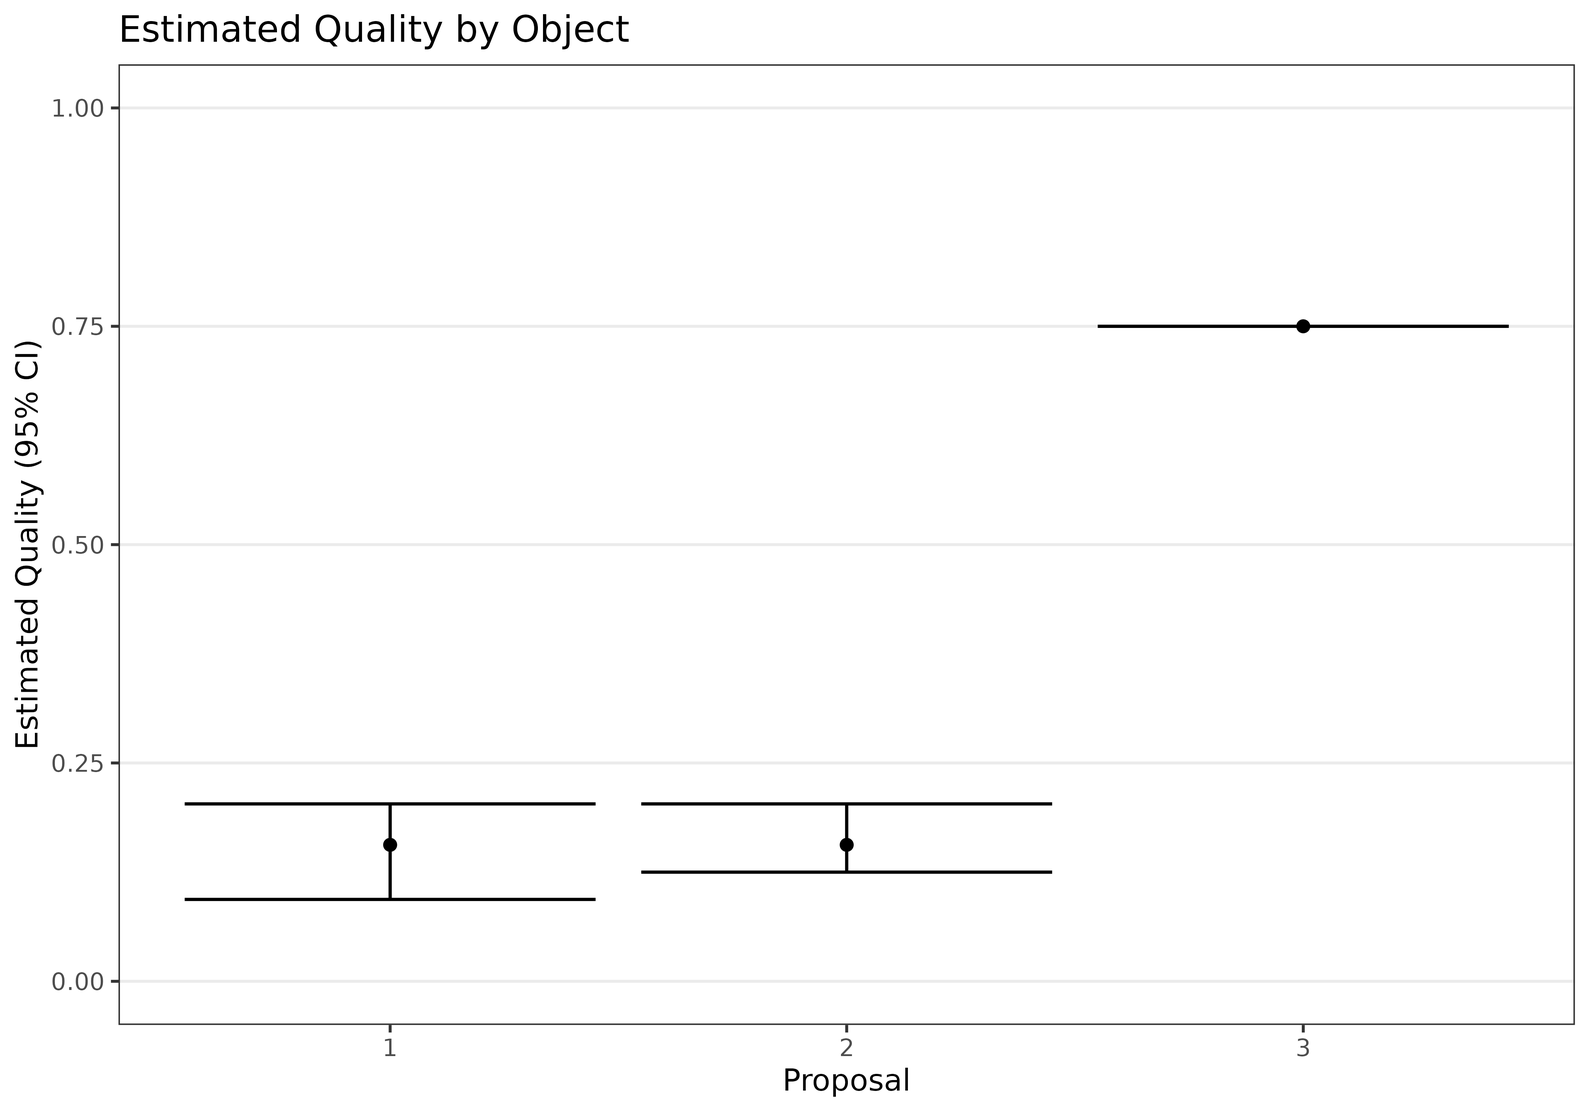
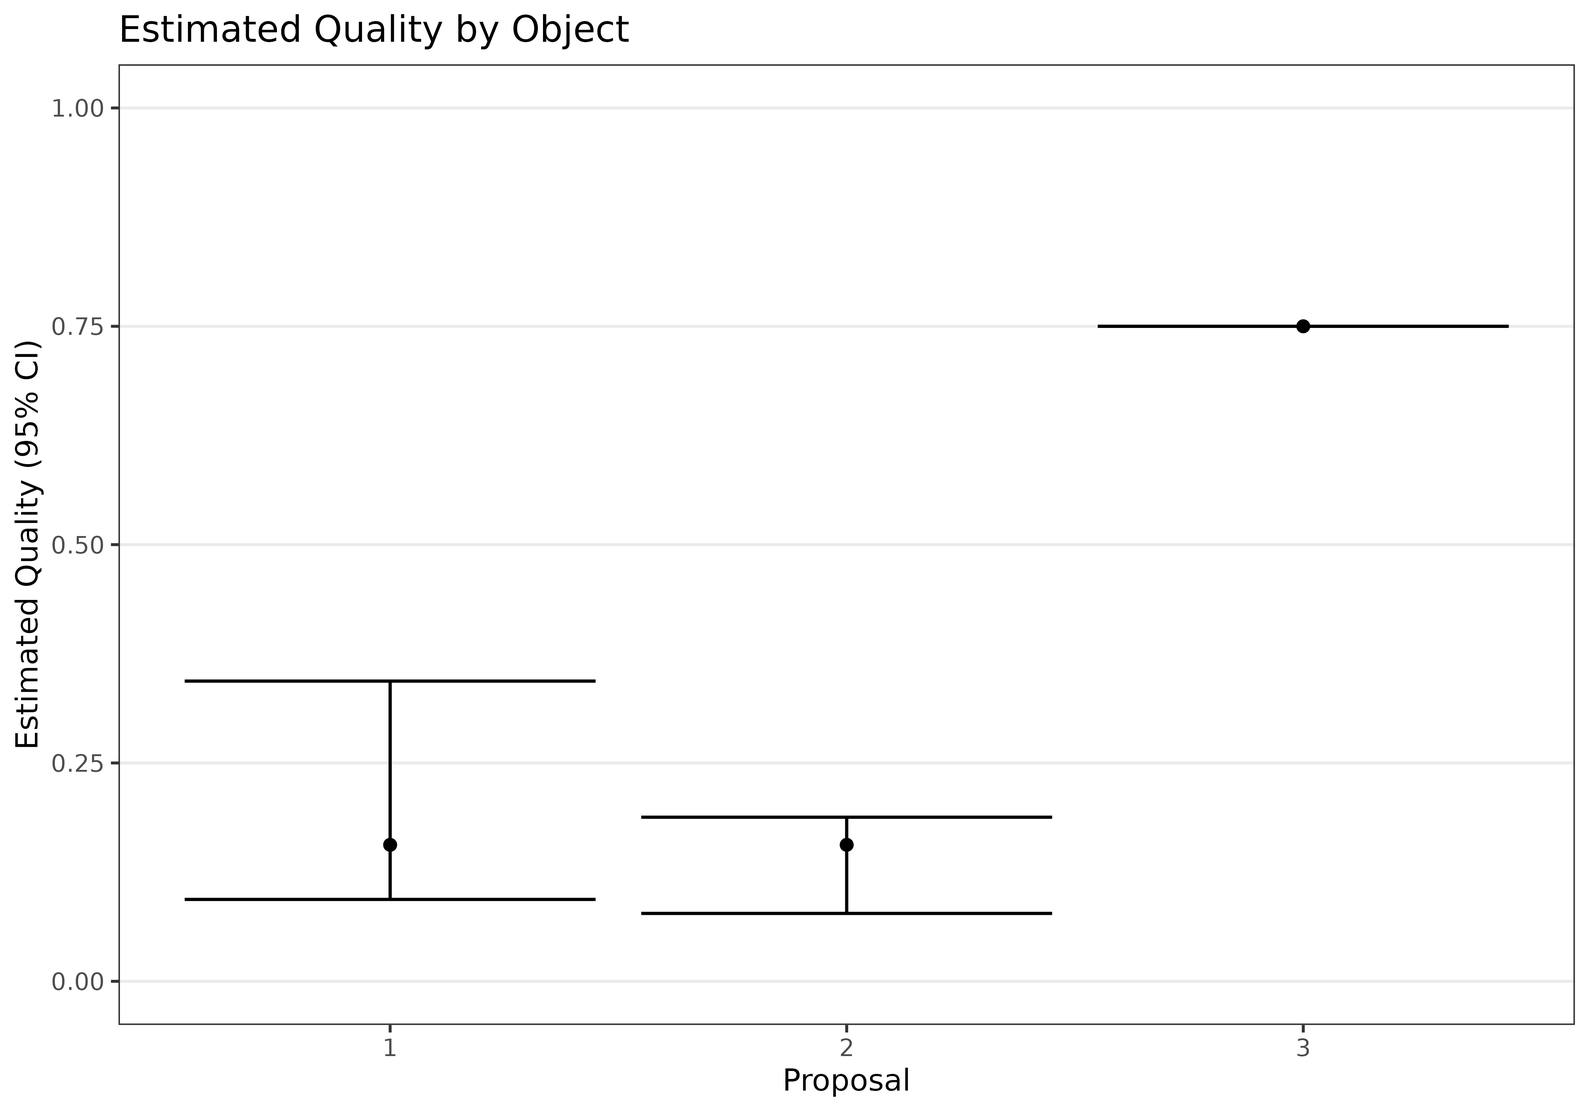
Deploying to gh-pages from @ pearce790/rankrate@41e6022e4606ce115d0dea6d0d26eedba32c3bf9 🚀

diff --git a/reference/ci_mb.html b/reference/ci_mb.html
@@ -115,7 +115,7 @@ matrix of bootstrap estimates of (p,theta) (returned only if <code>all==TRUE</co
 <span class="r-out co"><span class="r-pr">#&gt;</span> $ci</span>
 <span class="r-out co"><span class="r-pr">#&gt;</span>           p1       p2   p3 theta</span>
 <span class="r-out co"><span class="r-pr">#&gt;</span> 5%  0.078125 0.078125 0.75 1e+08</span>
-<span class="r-out co"><span class="r-pr">#&gt;</span> 95% 0.156250 0.156250 0.75 1e+08</span>
+<span class="r-out co"><span class="r-pr">#&gt;</span> 95% 0.187500 0.187500 0.75 1e+08</span>
 <span class="r-out co"><span class="r-pr">#&gt;</span> </span>
 <span class="r-out co"><span class="r-pr">#&gt;</span> $ci_ranks</span>
 <span class="r-out co"><span class="r-pr">#&gt;</span>     Object1 Object2 Object3</span>
@@ -177,56 +177,56 @@ matrix of bootstrap estimates of (p,theta) (returned only if <code>all==TRUE</co
 <span class="r-out co"><span class="r-pr">#&gt;</span> </span>
 <span class="r-out co"><span class="r-pr">#&gt;</span> $bootstrap_ptheta</span>
 <span class="r-out co"><span class="r-pr">#&gt;</span>             p1       p2   p3 theta</span>
-<span class="r-out co"><span class="r-pr">#&gt;</span>  [1,] 0.078125 0.078125 0.75 1e+08</span>
+<span class="r-out co"><span class="r-pr">#&gt;</span>  [1,] 0.109375 0.109375 0.75 1e+08</span>
 <span class="r-out co"><span class="r-pr">#&gt;</span>  [2,] 0.125000 0.125000 0.75 1e+08</span>
-<span class="r-out co"><span class="r-pr">#&gt;</span>  [3,] 0.156250 0.156250 0.75 1e+08</span>
-<span class="r-out co"><span class="r-pr">#&gt;</span>  [4,] 0.125000 0.125000 0.75 1e+08</span>
-<span class="r-out co"><span class="r-pr">#&gt;</span>  [5,] 0.109375 0.109375 0.75 1e+08</span>
-<span class="r-out co"><span class="r-pr">#&gt;</span>  [6,] 0.125000 0.125000 0.75 1e+08</span>
-<span class="r-out co"><span class="r-pr">#&gt;</span>  [7,] 0.156250 0.156250 0.75 1e+08</span>
+<span class="r-out co"><span class="r-pr">#&gt;</span>  [3,] 0.093750 0.093750 0.75 1e+08</span>
+<span class="r-out co"><span class="r-pr">#&gt;</span>  [4,] 0.109375 0.109375 0.75 1e+08</span>
+<span class="r-out co"><span class="r-pr">#&gt;</span>  [5,] 0.093750 0.093750 0.75 1e+08</span>
+<span class="r-out co"><span class="r-pr">#&gt;</span>  [6,] 0.156250 0.156250 0.75 1e+08</span>
+<span class="r-out co"><span class="r-pr">#&gt;</span>  [7,] 0.140625 0.140625 0.75 1e+08</span>
 <span class="r-out co"><span class="r-pr">#&gt;</span>  [8,] 0.125000 0.125000 0.75 1e+08</span>
-<span class="r-out co"><span class="r-pr">#&gt;</span>  [9,] 0.171875 0.171875 0.75 1e+08</span>
+<span class="r-out co"><span class="r-pr">#&gt;</span>  [9,] 0.109375 0.109375 0.75 1e+08</span>
 <span class="r-out co"><span class="r-pr">#&gt;</span> [10,] 0.125000 0.125000 0.75 1e+08</span>
-<span class="r-out co"><span class="r-pr">#&gt;</span> [11,] 0.109375 0.109375 0.75 1e+08</span>
+<span class="r-out co"><span class="r-pr">#&gt;</span> [11,] 0.156250 0.156250 0.75 1e+08</span>
 <span class="r-out co"><span class="r-pr">#&gt;</span> [12,] 0.140625 0.140625 0.75 1e+08</span>
-<span class="r-out co"><span class="r-pr">#&gt;</span> [13,] 0.140625 0.140625 0.75 1e+08</span>
-<span class="r-out co"><span class="r-pr">#&gt;</span> [14,] 0.093750 0.093750 0.75 1e+08</span>
-<span class="r-out co"><span class="r-pr">#&gt;</span> [15,] 0.156250 0.156250 0.75 1e+08</span>
+<span class="r-out co"><span class="r-pr">#&gt;</span> [13,] 0.203125 0.203125 0.75 1e+08</span>
+<span class="r-out co"><span class="r-pr">#&gt;</span> [14,] 0.062500 0.062500 0.75 1e+08</span>
+<span class="r-out co"><span class="r-pr">#&gt;</span> [15,] 0.109375 0.109375 0.75 1e+08</span>
 <span class="r-out co"><span class="r-pr">#&gt;</span> [16,] 0.140625 0.140625 0.75 1e+08</span>
-<span class="r-out co"><span class="r-pr">#&gt;</span> [17,] 0.109375 0.109375 0.75 1e+08</span>
-<span class="r-out co"><span class="r-pr">#&gt;</span> [18,] 0.109375 0.109375 0.75 1e+08</span>
-<span class="r-out co"><span class="r-pr">#&gt;</span> [19,] 0.156250 0.156250 0.75 1e+08</span>
-<span class="r-out co"><span class="r-pr">#&gt;</span> [20,] 0.078125 0.078125 0.75 1e+08</span>
-<span class="r-out co"><span class="r-pr">#&gt;</span> [21,] 0.156250 0.156250 0.75 1e+08</span>
-<span class="r-out co"><span class="r-pr">#&gt;</span> [22,] 0.140625 0.140625 0.75 1e+08</span>
-<span class="r-out co"><span class="r-pr">#&gt;</span> [23,] 0.078125 0.078125 0.75 1e+08</span>
-<span class="r-out co"><span class="r-pr">#&gt;</span> [24,] 0.187500 0.187500 0.75 1e+08</span>
-<span class="r-out co"><span class="r-pr">#&gt;</span> [25,] 0.140625 0.140625 0.75 1e+08</span>
-<span class="r-out co"><span class="r-pr">#&gt;</span> [26,] 0.140625 0.140625 0.75 1e+08</span>
-<span class="r-out co"><span class="r-pr">#&gt;</span> [27,] 0.109375 0.109375 0.75 1e+08</span>
-<span class="r-out co"><span class="r-pr">#&gt;</span> [28,] 0.156250 0.156250 0.75 1e+08</span>
+<span class="r-out co"><span class="r-pr">#&gt;</span> [17,] 0.140625 0.140625 0.75 1e+08</span>
+<span class="r-out co"><span class="r-pr">#&gt;</span> [18,] 0.078125 0.078125 0.75 1e+08</span>
+<span class="r-out co"><span class="r-pr">#&gt;</span> [19,] 0.109375 0.109375 0.75 1e+08</span>
+<span class="r-out co"><span class="r-pr">#&gt;</span> [20,] 0.140625 0.140625 0.75 1e+08</span>
+<span class="r-out co"><span class="r-pr">#&gt;</span> [21,] 0.125000 0.125000 0.75 1e+08</span>
+<span class="r-out co"><span class="r-pr">#&gt;</span> [22,] 0.109375 0.109375 0.75 1e+08</span>
+<span class="r-out co"><span class="r-pr">#&gt;</span> [23,] 0.093750 0.093750 0.75 1e+08</span>
+<span class="r-out co"><span class="r-pr">#&gt;</span> [24,] 0.156250 0.156250 0.75 1e+08</span>
+<span class="r-out co"><span class="r-pr">#&gt;</span> [25,] 0.109375 0.109375 0.75 1e+08</span>
+<span class="r-out co"><span class="r-pr">#&gt;</span> [26,] 0.093750 0.093750 0.75 1e+08</span>
+<span class="r-out co"><span class="r-pr">#&gt;</span> [27,] 0.140625 0.140625 0.75 1e+08</span>
+<span class="r-out co"><span class="r-pr">#&gt;</span> [28,] 0.125000 0.125000 0.75 1e+08</span>
 <span class="r-out co"><span class="r-pr">#&gt;</span> [29,] 0.093750 0.093750 0.75 1e+08</span>
-<span class="r-out co"><span class="r-pr">#&gt;</span> [30,] 0.078125 0.078125 0.75 1e+08</span>
-<span class="r-out co"><span class="r-pr">#&gt;</span> [31,] 0.109375 0.109375 0.75 1e+08</span>
-<span class="r-out co"><span class="r-pr">#&gt;</span> [32,] 0.125000 0.125000 0.75 1e+08</span>
-<span class="r-out co"><span class="r-pr">#&gt;</span> [33,] 0.140625 0.140625 0.75 1e+08</span>
-<span class="r-out co"><span class="r-pr">#&gt;</span> [34,] 0.156250 0.156250 0.75 1e+08</span>
+<span class="r-out co"><span class="r-pr">#&gt;</span> [30,] 0.140625 0.140625 0.75 1e+08</span>
+<span class="r-out co"><span class="r-pr">#&gt;</span> [31,] 0.187500 0.187500 0.75 1e+08</span>
+<span class="r-out co"><span class="r-pr">#&gt;</span> [32,] 0.093750 0.093750 0.75 1e+08</span>
+<span class="r-out co"><span class="r-pr">#&gt;</span> [33,] 0.109375 0.109375 0.75 1e+08</span>
+<span class="r-out co"><span class="r-pr">#&gt;</span> [34,] 0.078125 0.078125 0.75 1e+08</span>
 <span class="r-out co"><span class="r-pr">#&gt;</span> [35,] 0.156250 0.156250 0.75 1e+08</span>
-<span class="r-out co"><span class="r-pr">#&gt;</span> [36,] 0.140625 0.140625 0.75 1e+08</span>
-<span class="r-out co"><span class="r-pr">#&gt;</span> [37,] 0.125000 0.125000 0.75 1e+08</span>
-<span class="r-out co"><span class="r-pr">#&gt;</span> [38,] 0.093750 0.093750 0.75 1e+08</span>
-<span class="r-out co"><span class="r-pr">#&gt;</span> [39,] 0.046875 0.046875 0.75 1e+08</span>
-<span class="r-out co"><span class="r-pr">#&gt;</span> [40,] 0.140625 0.140625 0.75 1e+08</span>
+<span class="r-out co"><span class="r-pr">#&gt;</span> [36,] 0.093750 0.093750 0.75 1e+08</span>
+<span class="r-out co"><span class="r-pr">#&gt;</span> [37,] 0.187500 0.187500 0.75 1e+08</span>
+<span class="r-out co"><span class="r-pr">#&gt;</span> [38,] 0.156250 0.156250 0.75 1e+08</span>
+<span class="r-out co"><span class="r-pr">#&gt;</span> [39,] 0.125000 0.125000 0.75 1e+08</span>
+<span class="r-out co"><span class="r-pr">#&gt;</span> [40,] 0.125000 0.125000 0.75 1e+08</span>
 <span class="r-out co"><span class="r-pr">#&gt;</span> [41,] 0.140625 0.140625 0.75 1e+08</span>
-<span class="r-out co"><span class="r-pr">#&gt;</span> [42,] 0.140625 0.140625 0.75 1e+08</span>
+<span class="r-out co"><span class="r-pr">#&gt;</span> [42,] 0.078125 0.078125 0.75 1e+08</span>
 <span class="r-out co"><span class="r-pr">#&gt;</span> [43,] 0.140625 0.140625 0.75 1e+08</span>
-<span class="r-out co"><span class="r-pr">#&gt;</span> [44,] 0.031250 0.031250 0.75 1e+08</span>
+<span class="r-out co"><span class="r-pr">#&gt;</span> [44,] 0.125000 0.125000 0.75 1e+08</span>
 <span class="r-out co"><span class="r-pr">#&gt;</span> [45,] 0.109375 0.109375 0.75 1e+08</span>
-<span class="r-out co"><span class="r-pr">#&gt;</span> [46,] 0.109375 0.109375 0.75 1e+08</span>
-<span class="r-out co"><span class="r-pr">#&gt;</span> [47,] 0.125000 0.125000 0.75 1e+08</span>
-<span class="r-out co"><span class="r-pr">#&gt;</span> [48,] 0.140625 0.140625 0.75 1e+08</span>
-<span class="r-out co"><span class="r-pr">#&gt;</span> [49,] 0.109375 0.109375 0.75 1e+08</span>
-<span class="r-out co"><span class="r-pr">#&gt;</span> [50,] 0.109375 0.109375 0.75 1e+08</span>
+<span class="r-out co"><span class="r-pr">#&gt;</span> [46,] 0.140625 0.140625 0.75 1e+08</span>
+<span class="r-out co"><span class="r-pr">#&gt;</span> [47,] 0.218750 0.218750 0.75 1e+08</span>
+<span class="r-out co"><span class="r-pr">#&gt;</span> [48,] 0.156250 0.156250 0.75 1e+08</span>
+<span class="r-out co"><span class="r-pr">#&gt;</span> [49,] 0.125000 0.125000 0.75 1e+08</span>
+<span class="r-out co"><span class="r-pr">#&gt;</span> [50,] 0.078125 0.078125 0.75 1e+08</span>
 <span class="r-out co"><span class="r-pr">#&gt;</span> </span>
 <span class="r-in"><span></span></span>
 </code></pre></div>

diff --git a/reference/rmb.html b/reference/rmb.html
@@ -96,19 +96,19 @@ and <code>M</code>, the inputted maximum integer rating.</p>
     <div class="sourceCode"><pre class="sourceCode r"><code><span class="r-in"><span><span class="fu">rmb</span><span class="op">(</span>I<span class="op">=</span><span class="fl">5</span>,p<span class="op">=</span><span class="fu"><a href="https://rdrr.io/r/base/c.html" class="external-link">c</a></span><span class="op">(</span><span class="fl">.1</span>,<span class="fl">.3</span>,<span class="fl">.4</span>,<span class="fl">.7</span>,<span class="fl">.9</span><span class="op">)</span>,theta<span class="op">=</span><span class="fl">1</span>,M<span class="op">=</span><span class="fl">10</span><span class="op">)</span></span></span>
 <span class="r-out co"><span class="r-pr">#&gt;</span> $ratings</span>
 <span class="r-out co"><span class="r-pr">#&gt;</span>      [,1] [,2] [,3] [,4] [,5]</span>
-<span class="r-out co"><span class="r-pr">#&gt;</span> [1,]    2    2    5    7    9</span>
-<span class="r-out co"><span class="r-pr">#&gt;</span> [2,]    1    6    2    7    9</span>
-<span class="r-out co"><span class="r-pr">#&gt;</span> [3,]    1    3    3    8    7</span>
-<span class="r-out co"><span class="r-pr">#&gt;</span> [4,]    0    3    5    7   10</span>
-<span class="r-out co"><span class="r-pr">#&gt;</span> [5,]    1    5    6    3   10</span>
+<span class="r-out co"><span class="r-pr">#&gt;</span> [1,]    0    3    4   10   10</span>
+<span class="r-out co"><span class="r-pr">#&gt;</span> [2,]    1    2    6    5    9</span>
+<span class="r-out co"><span class="r-pr">#&gt;</span> [3,]    2    6    5    6    8</span>
+<span class="r-out co"><span class="r-pr">#&gt;</span> [4,]    2    5    3    8    7</span>
+<span class="r-out co"><span class="r-pr">#&gt;</span> [5,]    2    5    5    9    8</span>
 <span class="r-out co"><span class="r-pr">#&gt;</span> </span>
 <span class="r-out co"><span class="r-pr">#&gt;</span> $rankings</span>
 <span class="r-out co"><span class="r-pr">#&gt;</span>      [,1] [,2] [,3] [,4] [,5]</span>
-<span class="r-out co"><span class="r-pr">#&gt;</span> [1,]    1    3    4    2    5</span>
-<span class="r-out co"><span class="r-pr">#&gt;</span> [2,]    1    2    4    3    5</span>
-<span class="r-out co"><span class="r-pr">#&gt;</span> [3,]    1    4    2    3    5</span>
-<span class="r-out co"><span class="r-pr">#&gt;</span> [4,]    3    2    1    4    5</span>
-<span class="r-out co"><span class="r-pr">#&gt;</span> [5,]    1    3    4    2    5</span>
+<span class="r-out co"><span class="r-pr">#&gt;</span> [1,]    2    1    4    3    5</span>
+<span class="r-out co"><span class="r-pr">#&gt;</span> [2,]    1    3    2    4    5</span>
+<span class="r-out co"><span class="r-pr">#&gt;</span> [3,]    1    3    4    5    2</span>
+<span class="r-out co"><span class="r-pr">#&gt;</span> [4,]    1    2    3    4    5</span>
+<span class="r-out co"><span class="r-pr">#&gt;</span> [5,]    1    2    3    4    5</span>
 <span class="r-out co"><span class="r-pr">#&gt;</span> </span>
 <span class="r-out co"><span class="r-pr">#&gt;</span> $M</span>
 <span class="r-out co"><span class="r-pr">#&gt;</span> [1] 10</span>
@@ -116,16 +116,16 @@ and <code>M</code>, the inputted maximum integer rating.</p>
 <span class="r-in"><span><span class="fu">rmb</span><span class="op">(</span>I<span class="op">=</span><span class="fl">10</span>,p<span class="op">=</span><span class="fu"><a href="https://rdrr.io/r/base/c.html" class="external-link">c</a></span><span class="op">(</span><span class="fl">.1</span>,<span class="fl">.3</span>,<span class="fl">.3</span>,<span class="fl">.7</span>,<span class="fl">.9</span><span class="op">)</span>,pi0<span class="op">=</span><span class="fu"><a href="https://rdrr.io/r/base/c.html" class="external-link">c</a></span><span class="op">(</span><span class="fl">1</span>,<span class="fl">3</span>,<span class="fl">2</span>,<span class="fl">4</span>,<span class="fl">5</span><span class="op">)</span>,theta<span class="op">=</span><span class="fl">5</span>,M<span class="op">=</span><span class="fl">40</span>,R<span class="op">=</span><span class="fl">3</span><span class="op">)</span></span></span>
 <span class="r-out co"><span class="r-pr">#&gt;</span> $ratings</span>
 <span class="r-out co"><span class="r-pr">#&gt;</span>       [,1] [,2] [,3] [,4] [,5]</span>
-<span class="r-out co"><span class="r-pr">#&gt;</span>  [1,]    2   18   14   27   37</span>
-<span class="r-out co"><span class="r-pr">#&gt;</span>  [2,]    3   11   10   31   35</span>
-<span class="r-out co"><span class="r-pr">#&gt;</span>  [3,]    5   10   16   35   32</span>
-<span class="r-out co"><span class="r-pr">#&gt;</span>  [4,]    5   13   13   30   39</span>
-<span class="r-out co"><span class="r-pr">#&gt;</span>  [5,]    3   11   12   27   37</span>
-<span class="r-out co"><span class="r-pr">#&gt;</span>  [6,]    3   13   15   27   36</span>
-<span class="r-out co"><span class="r-pr">#&gt;</span>  [7,]    6    7   11   22   36</span>
-<span class="r-out co"><span class="r-pr">#&gt;</span>  [8,]    6   10   13   27   36</span>
-<span class="r-out co"><span class="r-pr">#&gt;</span>  [9,]    4    6   12   28   39</span>
-<span class="r-out co"><span class="r-pr">#&gt;</span> [10,]    2   12   10   26   36</span>
+<span class="r-out co"><span class="r-pr">#&gt;</span>  [1,]    8   11   14   30   38</span>
+<span class="r-out co"><span class="r-pr">#&gt;</span>  [2,]    2   11   12   29   38</span>
+<span class="r-out co"><span class="r-pr">#&gt;</span>  [3,]    7   12   11   28   38</span>
+<span class="r-out co"><span class="r-pr">#&gt;</span>  [4,]    6    9   12   25   39</span>
+<span class="r-out co"><span class="r-pr">#&gt;</span>  [5,]    3   15   14   27   33</span>
+<span class="r-out co"><span class="r-pr">#&gt;</span>  [6,]    3    9   14   30   35</span>
+<span class="r-out co"><span class="r-pr">#&gt;</span>  [7,]    3    7   16   32   35</span>
+<span class="r-out co"><span class="r-pr">#&gt;</span>  [8,]    3   15   11   27   37</span>
+<span class="r-out co"><span class="r-pr">#&gt;</span>  [9,]    3   15   11   33   37</span>
+<span class="r-out co"><span class="r-pr">#&gt;</span> [10,]    6    9   14   21   34</span>
 <span class="r-out co"><span class="r-pr">#&gt;</span> </span>
 <span class="r-out co"><span class="r-pr">#&gt;</span> $rankings</span>
 <span class="r-out co"><span class="r-pr">#&gt;</span>       [,1] [,2] [,3] [,4] [,5]</span>

diff --git a/reference/rmall.html b/reference/rmall.html
@@ -85,24 +85,24 @@ rankings are drawn by definition.</p></dd>
     <h2>Examples</h2>
     <div class="sourceCode"><pre class="sourceCode r"><code><span class="r-in"><span><span class="fu">rmall</span><span class="op">(</span>I<span class="op">=</span><span class="fl">5</span>,pi0<span class="op">=</span><span class="fl">1</span><span class="op">:</span><span class="fl">5</span>,theta<span class="op">=</span><span class="fl">1</span>,R<span class="op">=</span><span class="fl">3</span><span class="op">)</span></span></span>
 <span class="r-out co"><span class="r-pr">#&gt;</span>      [,1] [,2] [,3] [,4] [,5]</span>
-<span class="r-out co"><span class="r-pr">#&gt;</span> [1,]    1    4    2   NA   NA</span>
-<span class="r-out co"><span class="r-pr">#&gt;</span> [2,]    3    1    2   NA   NA</span>
-<span class="r-out co"><span class="r-pr">#&gt;</span> [3,]    1    3    2   NA   NA</span>
+<span class="r-out co"><span class="r-pr">#&gt;</span> [1,]    3    1    4   NA   NA</span>
+<span class="r-out co"><span class="r-pr">#&gt;</span> [2,]    1    2    4   NA   NA</span>
+<span class="r-out co"><span class="r-pr">#&gt;</span> [3,]    4    1    2   NA   NA</span>
 <span class="r-out co"><span class="r-pr">#&gt;</span> [4,]    1    2    3   NA   NA</span>
-<span class="r-out co"><span class="r-pr">#&gt;</span> [5,]    1    2    4   NA   NA</span>
+<span class="r-out co"><span class="r-pr">#&gt;</span> [5,]    1    2    3   NA   NA</span>
 <span class="r-in"><span><span class="fu">rmall</span><span class="op">(</span>I<span class="op">=</span><span class="fl">5</span>,pi0<span class="op">=</span><span class="fl">1</span><span class="op">:</span><span class="fl">3</span>,theta<span class="op">=</span><span class="fl">.5</span>,R<span class="op">=</span><span class="fu"><a href="https://rdrr.io/r/base/c.html" class="external-link">c</a></span><span class="op">(</span><span class="fl">1</span>,<span class="fl">1</span>,<span class="fl">1</span>,<span class="fl">1</span>,<span class="fl">3</span><span class="op">)</span><span class="op">)</span></span></span>
 <span class="r-out co"><span class="r-pr">#&gt;</span>      [,1] [,2] [,3]</span>
-<span class="r-out co"><span class="r-pr">#&gt;</span> [1,]    3   NA   NA</span>
+<span class="r-out co"><span class="r-pr">#&gt;</span> [1,]    1   NA   NA</span>
 <span class="r-out co"><span class="r-pr">#&gt;</span> [2,]    2   NA   NA</span>
 <span class="r-out co"><span class="r-pr">#&gt;</span> [3,]    1   NA   NA</span>
-<span class="r-out co"><span class="r-pr">#&gt;</span> [4,]    3   NA   NA</span>
+<span class="r-out co"><span class="r-pr">#&gt;</span> [4,]    1   NA   NA</span>
 <span class="r-out co"><span class="r-pr">#&gt;</span> [5,]    2    1    3</span>
 <span class="r-in"><span><span class="fu">rmall</span><span class="op">(</span>I<span class="op">=</span><span class="fl">5</span>,pi0<span class="op">=</span><span class="fl">1</span><span class="op">:</span><span class="fl">3</span>,theta<span class="op">=</span><span class="fl">.5</span><span class="op">)</span></span></span>
 <span class="r-out co"><span class="r-pr">#&gt;</span>      [,1] [,2] [,3]</span>
-<span class="r-out co"><span class="r-pr">#&gt;</span> [1,]    3    2    1</span>
+<span class="r-out co"><span class="r-pr">#&gt;</span> [1,]    3    1    2</span>
 <span class="r-out co"><span class="r-pr">#&gt;</span> [2,]    1    2    3</span>
-<span class="r-out co"><span class="r-pr">#&gt;</span> [3,]    3    2    1</span>
-<span class="r-out co"><span class="r-pr">#&gt;</span> [4,]    1    2    3</span>
+<span class="r-out co"><span class="r-pr">#&gt;</span> [3,]    2    1    3</span>
+<span class="r-out co"><span class="r-pr">#&gt;</span> [4,]    2    1    3</span>
 <span class="r-out co"><span class="r-pr">#&gt;</span> [5,]    1    2    3</span>
 <span class="r-in"><span></span></span>
 </code></pre></div>

diff --git a/articles/overview.html b/articles/overview.html
@@ -85,13 +85,14 @@ data sets and 1 real data from the American Institute of Biological
 Sciences, which were all studied in <span class="citation">Gallo et al.
 (2022)</span>.</p>
 <p>For more details on how to use this package, see the <a href="https://pearce790.github.io/rankrate/articles/tutorial.html">tutorial</a>.</p>
-<p>A published version of the package may be install from CRAN, or a
-development version for the most up-to-date functionality:</p>
+<p>A published version of the package may be installed from CRAN, or a
+development version from Github for the most up-to-date
+functionality:</p>
 <div class="sourceCode" id="cb1"><pre class="downlit sourceCode r">
-<code class="sourceCode R"><span><span class="co">## CRAN version</span></span>
+<code class="sourceCode R"><span><span class="co">## Published (CRAN) version</span></span>
 <span><span class="fu"><a href="https://rdrr.io/r/utils/install.packages.html" class="external-link">install.packages</a></span><span class="op">(</span><span class="st">"rankrate"</span><span class="op">)</span>  </span>
 <span></span>
-<span><span class="co">## Development version</span></span>
+<span><span class="co">## Development (Github) version</span></span>
 <span><span class="co"># install.packages("devtools") # uncomment if you haven't installed 'devtools' before</span></span>
 <span><span class="fu">devtools</span><span class="fu">::</span><span class="fu"><a href="https://remotes.r-lib.org/reference/install_github.html" class="external-link">install_github</a></span><span class="op">(</span><span class="st">"pearce790/rankrate"</span><span class="op">)</span></span></code></pre></div>
 <p>After installation, load the package with the following code:</p>

diff --git a/index.html b/index.html
@@ -61,7 +61,18 @@
 
       </header><div class="row">
   <div class="contents col-md-9">
-This package implements key estimation procedures of the Mallows-Binomial model, the first joint statistical model for preference learning for rankings and ratings. 
+
+<div class="section level2">
+<h2 id="rankrate">rankrate<a class="anchor" aria-label="anchor" href="#rankrate"></a>
+</h2>
+<p>The <code>rankrate</code> R package implements the Mallows-Binomial distribution, the first joint statistical model for preference modeling with rankings and ratings.</p>
+</div>
+<div class="section level2">
+<h2 id="where-can-i-learn-more">Where can I learn more?<a class="anchor" aria-label="anchor" href="#where-can-i-learn-more"></a>
+</h2>
+<p>See the <a href="https://pearce790.github.io/rankrate/articles/overview.html">overview</a> tab for information on downloading the package from CRAN or Github, and the <a href="https://pearce790.github.io/rankrate/articles/tutorial.html">tutorial</a> tab for instructions on how to use the package on real data.</p>
+</div>
+
   </div>
 
   <div class="col-md-3 hidden-xs hidden-sm" id="pkgdown-sidebar">
